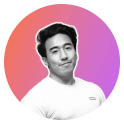
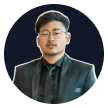
contact page completed

diff --git a/pages/contact.js b/pages/contact.js
@@ -64,9 +64,9 @@ if(viewWidth>768){
   const [loaded, setLoaded]=useState(false)
 
   const [loading, setLoading]= useState(false)    ;
-const handleChange=(e) =>{
-const {name,value}=e.target;
-setForm({...form,[name]:value})
+  const handleChange=(e) =>{
+  const {name,value}=e.target;
+  setForm({...form,[name]:value})
 }
 
 
@@ -74,7 +74,7 @@ setForm({...form,[name]:value})
 //template_5wew57s
 //service_395olyt
 
-const handleSubmit = (e) => {
+  const handleSubmit = (e) => {
   e.preventDefault(); // Prevents the default form submission behavior
 
   setFormSubmitted(true);
@@ -114,9 +114,9 @@ const handleSubmit = (e) => {
   emailjs
     .send('service_50n9tf3', 'template_5wew57s', {
       from_name: form.name,
-      to_name: 'Shirish',
+      to_name: 'Saugat',
       from_email: form.email,
-      to_email: 'shirish.shakya5@gmail.com',
+      to_email: 'saugatmaharjan11@gmail.com',
       message: form.message,
     }, 'SzlVDNiBR3_3JB8YE')
     .then((response) => {
@@ -207,111 +207,152 @@ const handleCopyClick = () => {
         <SubHead></SubHead>
        
         <main>
-        
+
+          {/* Body */}
           <section className='contact-section'> 
             <div style={{paddingTop:"6rem"}} className='container d-flex flex-column gap-5'>
 
+              {/* Title */}
               <div className='headingContainer position-relative'>
-              <h1>LETS WORK TOGETHER</h1>
+
+                <h1>LETS WORK TOGETHER</h1>
+
+              {/* Image */}
+
               <Image alt="me" src={me} className="position-absolute"></Image >
               </div>
-            
+
+
+            {/* BODY */}
             <div className='contact row d-flex flex-row'>
+
+              {/* Image */}
               <div className={`${divClassName} d-flex flex-column gap-4`}>
               <Image src={me} alt="me" className="me-large"></Image >
 
-             <div className='d-flex flex-column GAPm'>
-              <span>Contact Details</span>
-              <div className='d-flex flex-column GAPxs'>
-              <div className='d-flex flex-row GAPm align-items-center'>
-              <span className="FONTNEXA SIZEF8 TXTNaturalWhite100">Email:</span>
-              <p id="email" className='TXTTailwindGray400 '>shirish.shakya5@gmail.com</p>
-              <div className='position-relative'>
+                {/* My Information */}
+                <div className='d-flex flex-column GAPm'>
 
-                <IconButton 
-                onClick={handleCopyClick}
-                icon=
-                {isCopied ? 
-                  <svg xmlns="http://www.w3.org/2000/svg" width="16" height="16" fill="currentColor" className="bi bi-clipboard-check-fill" viewBox="0 0 16 16">
-                  <path d="M6.5 0A1.5 1.5 0 0 0 5 1.5v1A1.5 1.5 0 0 0 6.5 4h3A1.5 1.5 0 0 0 11 2.5v-1A1.5 1.5 0 0 0 9.5 0h-3Zm3 1a.5.5 0 0 1 .5.5v1a.5.5 0 0 1-.5.5h-3a.5.5 0 0 1-.5-.5v-1a.5.5 0 0 1 .5-.5h3Z"/>
-                  <path d="M4 1.5H3a2 2 0 0 0-2 2V14a2 2 0 0 0 2 2h10a2 2 0 0 0 2-2V3.5a2 2 0 0 0-2-2h-1v1A2.5 2.5 0 0 1 9.5 5h-3A2.5 2.5 0 0 1 4 2.5v-1Zm6.854 7.354-3 3a.5.5 0 0 1-.708 0l-1.5-1.5a.5.5 0 0 1 .708-.708L7.5 10.793l2.646-2.647a.5.5 0 0 1 .708.708Z"/>
-                </svg>
-                : 
-                  <svg xmlns="http://www.w3.org/2000/svg" width="16" height="16" fill="currentColor" className="bi bi-clipboard" viewBox="0 0 16 16">
-                  <path d="M4 1.5H3a2 2 0 0 0-2 2V14a2 2 0 0 0 2 2h10a2 2 0 0 0 2-2V3.5a2 2 0 0 0-2-2h-1v1h1a1 1 0 0 1 1 1V14a1 1 0 0 1-1 1H3a1 1 0 0 1-1-1V3.5a1 1 0 0 1 1-1h1v-1z"/>
-                  <path d="M9.5 1a.5.5 0 0 1 .5.5v1a.5.5 0 0 1-.5.5h-3a.5.5 0 0 1-.5-.5v-1a.5.5 0 0 1 .5-.5h3zm-3-1A1.5 1.5 0 0 0 5 1.5v1A1.5 1.5 0 0 0 6.5 4h3A1.5 1.5 0 0 0 11 2.5v-1A1.5 1.5 0 0 0 9.5 0h-3z"/>
-                  </svg>
-                  }
-                />
-             
-              {isCopied && <div style={{top:'-100%',left:'-50%'}} className='position-absolute FONTNEXA BGBrandBlack300 BDR4 PLm PTxs PBxs PRm TXTNaturalWhite100'>Copied!</div>}
-              </div>
-              </div>
-              {/* <div className='d-flex flex-row GAPm'>
-              <span className="FONTNEXA SIZEF8 TXTNaturalWhite100">Mobile:</span>
-              <p className='TXTTailwindGray400 FONTNEXA'>+1 (416) 857-3273</p>
-              </div> */}
-              </div>
-              </div> 
+                  <span>Contact Details</span>
 
-              <div className='d-flex flex-column GAPm'>
-              <span>Socials </span>
-              <ul className="contact d-flex flex-column gap-2" >
-                        <li ><a className='TXTBrandOrange500' style={{ textDecoration: 'underline' }} href="https://www.linkedin.com/in/shirish-shakya-0bb39a293">Linkedin</a></li>
-                        <li><a className='TXTBrandOrange500' style={{ textDecoration: 'underline' }} href="https://www.behance.net/shirishshakya">Behance</a></li>
-                        <li><a className='TXTBrandOrange500' style={{ textDecoration: 'underline' }} href="https://www.instagram.com/shakyastagram/?hl=en">Instagram</a></li>
+                    <div className='d-flex flex-column GAPxs'>
+
+                      {/* Email */}
+                      <div className='d-flex flex-row GAPm align-items-center'>
+
+                      <span className="FONTNEXA SIZEF8 TXTNaturalWhite100">Email:</span>
+
+                        <p id="email" className='TXTTailwindGray200 '>saugatmaharjan11@gmail.com</p>
+
+                        {/* Copy Email */}
+                        <div className='position-relative'>
+
+                          <IconButton 
+                          onClick={handleCopyClick}
+                          icon=
+                          {isCopied ? 
+                            <svg xmlns="http://www.w3.org/2000/svg" width="16" height="16" fill="currentColor" className="bi bi-clipboard-check-fill" viewBox="0 0 16 16">
+                            <path d="M6.5 0A1.5 1.5 0 0 0 5 1.5v1A1.5 1.5 0 0 0 6.5 4h3A1.5 1.5 0 0 0 11 2.5v-1A1.5 1.5 0 0 0 9.5 0h-3Zm3 1a.5.5 0 0 1 .5.5v1a.5.5 0 0 1-.5.5h-3a.5.5 0 0 1-.5-.5v-1a.5.5 0 0 1 .5-.5h3Z"/>
+                            <path d="M4 1.5H3a2 2 0 0 0-2 2V14a2 2 0 0 0 2 2h10a2 2 0 0 0 2-2V3.5a2 2 0 0 0-2-2h-1v1A2.5 2.5 0 0 1 9.5 5h-3A2.5 2.5 0 0 1 4 2.5v-1Zm6.854 7.354-3 3a.5.5 0 0 1-.708 0l-1.5-1.5a.5.5 0 0 1 .708-.708L7.5 10.793l2.646-2.647a.5.5 0 0 1 .708.708Z"/>
+                          </svg>
+                          : 
+                            <svg xmlns="http://www.w3.org/2000/svg" width="16" height="16" fill="currentColor" className="bi bi-clipboard" viewBox="0 0 16 16">
+                            <path d="M4 1.5H3a2 2 0 0 0-2 2V14a2 2 0 0 0 2 2h10a2 2 0 0 0 2-2V3.5a2 2 0 0 0-2-2h-1v1h1a1 1 0 0 1 1 1V14a1 1 0 0 1-1 1H3a1 1 0 0 1-1-1V3.5a1 1 0 0 1 1-1h1v-1z"/>
+                            <path d="M9.5 1a.5.5 0 0 1 .5.5v1a.5.5 0 0 1-.5.5h-3a.5.5 0 0 1-.5-.5v-1a.5.5 0 0 1 .5-.5h3zm-3-1A1.5 1.5 0 0 0 5 1.5v1A1.5 1.5 0 0 0 6.5 4h3A1.5 1.5 0 0 0 11 2.5v-1A1.5 1.5 0 0 0 9.5 0h-3z"/>
+                            </svg>
+                            }
+                          />
+                      
+                        {isCopied && <div style={{top:'-100%',left:'-50%'}} className='position-absolute FONTNEXA BGBrandBlack300 BDR4 PLm PTxs PBxs PRm TXTNaturalWhite100'>Copied!</div>}
+                        </div>
+
+                      </div>
+
+                      {/* Mobile */}
+                      {/* <div className='d-flex flex-row GAPm'>
+                      <span className="FONTNEXA SIZEF8 TXTNaturalWhite100">Mobile:</span>
+                      <p className='TXTTailwindGray200 FONTNEXA'>+977 9843687180</p>
+                      </div> */}
+                    </div>
+
+                </div> 
+
+                {/* Socials */}
+                <div className='d-flex flex-column GAPm'>
+
+                  <span>Socials </span>
+
+                      <ul className="contact d-flex flex-column gap-2" >
+                        
+                            <li ><a className='TXTBrandOrange500' style={{ textDecoration: 'underline' }} href="https://www.linkedin.com/in/er-saugat-maharjan-471a86225">Linkedin</a></li>
+                            <li><a className='TXTBrandOrange500' style={{ textDecoration: 'underline' }} href="https://dribbble.com/Saugat7">Dribbble</a></li>
+                            <li><a className='TXTBrandOrange500' style={{ textDecoration: 'underline' }} href="https://www.instagram.com/s.a.u.g.a.t_7/">Instagram</a></li>
+                            <li><a className='TXTBrandOrange500' style={{ textDecoration: 'underline' }} href="https://www.facebook.com/saugat.maharjan/">Facebook</a></li>
+        
                       </ul>
 
-              </div> 
+                </div> 
+              
               </div>
 
+              {/* FORM */}
               <div className='col'> 
-              <form 
-              className='d-flex flex-column gap-5'
-              ref={formref}
-              onSubmit={handleSubmit}
-              method="post" // Add method="post" to use POST request
 
-              >
+                <form 
+                className='d-flex flex-column gap-5'
+                ref={formref}
+                onSubmit={handleSubmit}
+                method="post" // Add method="post" to use POST request
+                >
+
                   <ul  className='d-flex flex-column GAPxxl'>
+
+                    {/* Name */}
                     <li>
-        <Input
-          InputLabel="What is your name?"
-          type='text'
-          name='name'
-          value={form.name}
-          handleChange={handleChange}
-          placeholder='e.g. Mike'
-          required
-          errorMessage="Please enter your name"
-          formSubmitted={formSubmitted}
-        />
-        </li><li>
-        <Input
-          InputLabel="What is your email?"
-          type='email'
-          name='email'
-          value={form.email}
-          handleChange={handleChange}
-          placeholder='e.g. Mike@gmail.com'
-          required
-          errorMessage="Please enter a valid email"
-          formSubmitted={formSubmitted}
+                      <Input
+                        InputLabel="What is your name?"
+                        type='text'
+                        name='name'
+                        value={form.name}
+                        handleChange={handleChange}
+                        placeholder='e.g. Mike'
+                        required
+                        errorMessage="Please enter your name"
+                        formSubmitted={formSubmitted}
+                      />
+                    </li>
 
-        /></li><li>
-        <Textarea
-          InputLabel="Your Message"
-          name='message'
-          rows={10}
-          value={form.message}
-          handleChange={handleChange}
-          placeholder='Your Message Here'
-          required
-          errorMessage="Please enter your message"
-          formSubmitted={formSubmitted}
+                    {/* email */}
+                    <li>
+                      <Input
+                        InputLabel="What is your email?"
+                        type='email'
+                        name='email'
+                        value={form.email}
+                        handleChange={handleChange}
+                        placeholder='e.g. Mike@gmail.com'
+                        required
+                        errorMessage="Please enter a valid email"
+                        formSubmitted={formSubmitted}
+                      />
+                    </li>
+        
+                    {/* Message */}
+                    <li>
+                      <Textarea
+                        InputLabel="Your Message"
+                        name='message'
+                        rows={10}
+                        value={form.message}
+                        handleChange={handleChange}
+                        placeholder='Your Message Here'
+                        required
+                        errorMessage="Please enter your message"
+                        formSubmitted={formSubmitted}
+                      />
+                    </li>
 
-        /></li>
-      </ul>
+                  </ul>
 
                 <Button
                 customButtonType=
@@ -323,15 +364,16 @@ const handleCopyClick = () => {
                 leftIcon=
                 {
                 <svg
-  xmlns="http://www.w3.org/2000/svg"
-  width={16}
-  height={16}
-  fill="currentColor"
-  className="bi bi-send"
-  viewBox="0 0 16 16"
->
-  <path d="M15.854.146a.5.5 0 0 1 .11.54l-5.819 14.547a.75.75 0 0 1-1.329.124l-3.178-4.995L.643 7.184a.75.75 0 0 1 .124-1.33L15.314.037a.5.5 0 0 1 .54.11ZM6.636 10.07l2.761 4.338L14.13 2.576zm6.787-8.201L1.591 6.602l4.339 2.76 7.494-7.493Z" />
-</svg>
+                  xmlns="http://www.w3.org/2000/svg"
+                  width={16}
+                  height={16}
+                  fill="currentColor"
+                  className="bi bi-send"
+                  viewBox="0 0 16 16"
+                >
+
+                  <path d="M15.854.146a.5.5 0 0 1 .11.54l-5.819 14.547a.75.75 0 0 1-1.329.124l-3.178-4.995L.643 7.184a.75.75 0 0 1 .124-1.33L15.314.037a.5.5 0 0 1 .54.11ZM6.636 10.07l2.761 4.338L14.13 2.576zm6.787-8.201L1.591 6.602l4.339 2.76 7.494-7.493Z" />
+                </svg>
 
               }
               />

diff --git a/pages/404.js b/pages/404.js
@@ -15,7 +15,7 @@ function NotFoundPage(){
             <div className="container min-vh-100 d-flex flex-column align-items-center justify-content-center">
             <div className="d-flex flex-column gap-4 w-100 h-100 text-center">
         <h1>404</h1>
-        <h2 className="">Sorry, cant connect to the world.</h2> 
+        <h2 className="">Sorry, can't connect to the world.</h2> 
     </div>
             </div>
         </section>
